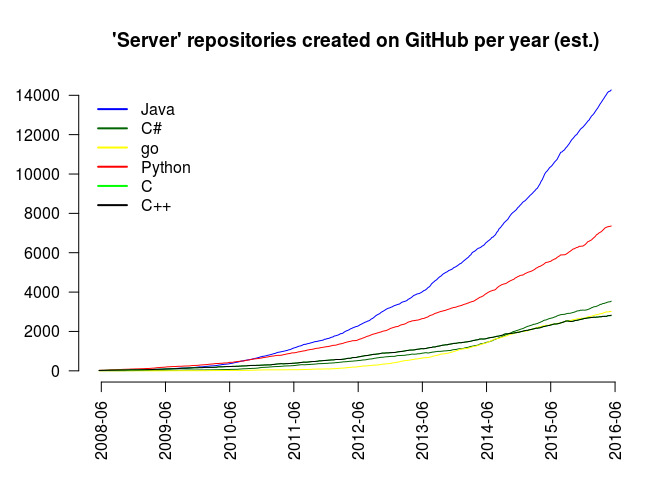
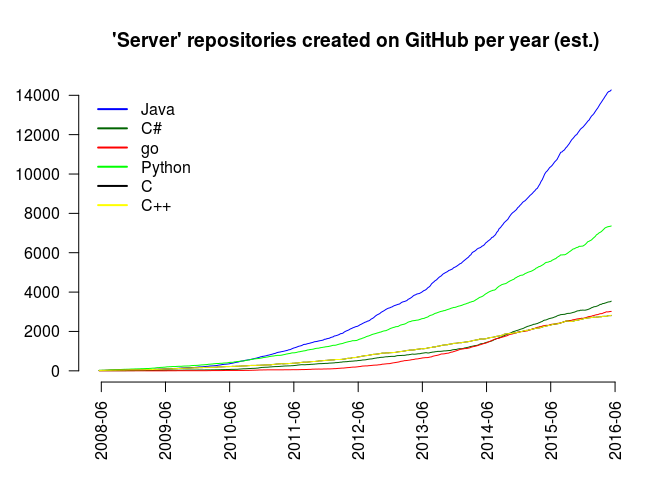
Colour update, some description.
Relates to #8.

diff --git a/analysis_server.md b/analysis_server.md
@@ -12,8 +12,21 @@ Picking a Language for Server-Side Programming (Working Draft)
 Introduction
 ------------
 
-I don't have much to do with server-side programming, so I'll let the
-charts speak for themselves, mostly.
+I don't have much to do with server-side programming these days, so I'll
+let the charts speak for themselves, mostly.
+
+The method was to search for keywords using a GitHub client script over
+weekly intervals, starting from 2008-01-01, and then using a 22 radius
+Daniel k-filter plot some comprehensibly smooth charts and compensate
+for likely seasonality effects.
+
+The [Wikipedia Diffusion of
+innovations](https://en.wikipedia.org/wiki/Diffusion_of_innovations)
+article may give some ideas what curve types we see on the charts,
+however it is hard to decide the impregnation of what area(s) are
+described by each curve from merely these graphs, and to find out which
+of these, if any, have already started to reach into the flattening out
+(late majority) phase.
 
 Keyword \#1: "Server"
 ---------------------
@@ -34,3 +47,7 @@ Conclusion
 ----------
 
 No conclusion here - choose whatever best fits.
+
+Note: PHP and JavaScript (or derivatives, like Node.JS) have probably
+been unreasonably left out from the above comparisons and will be added
+soon where relevant.
